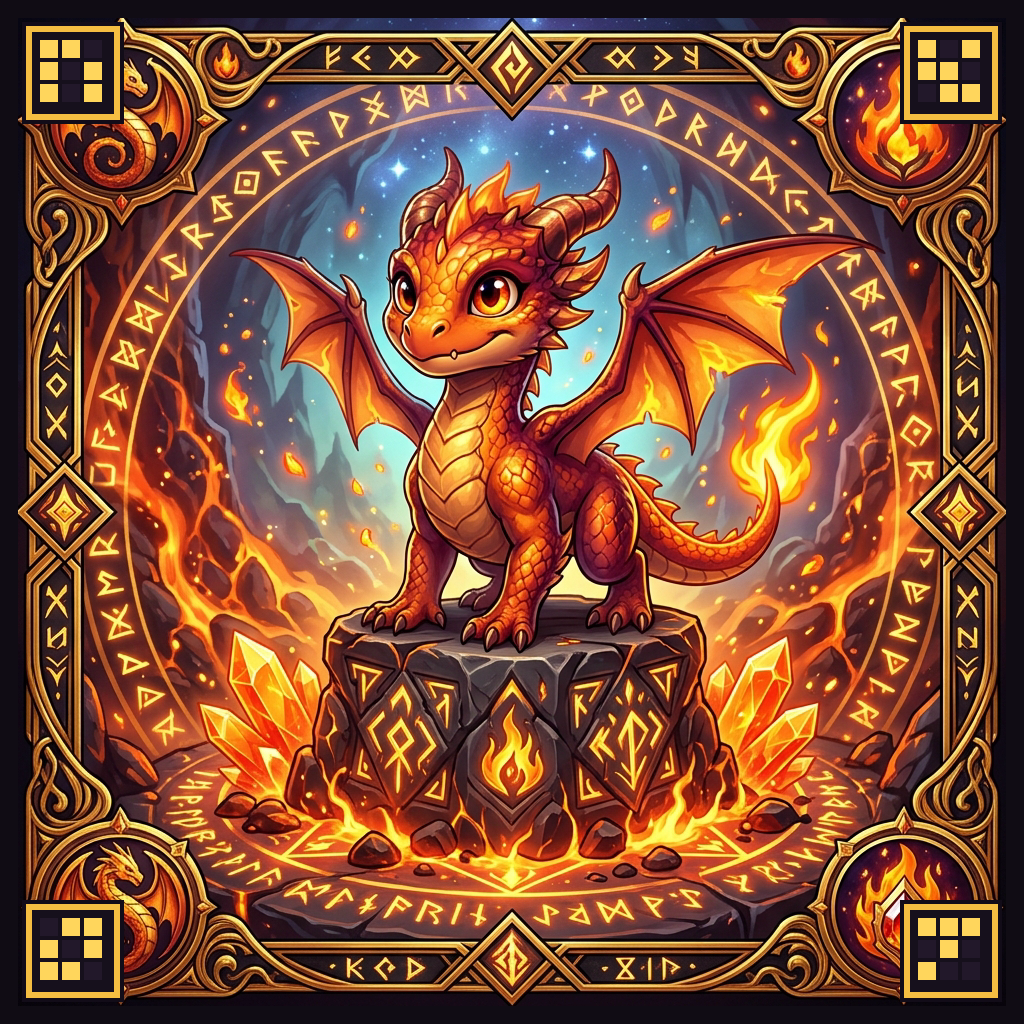
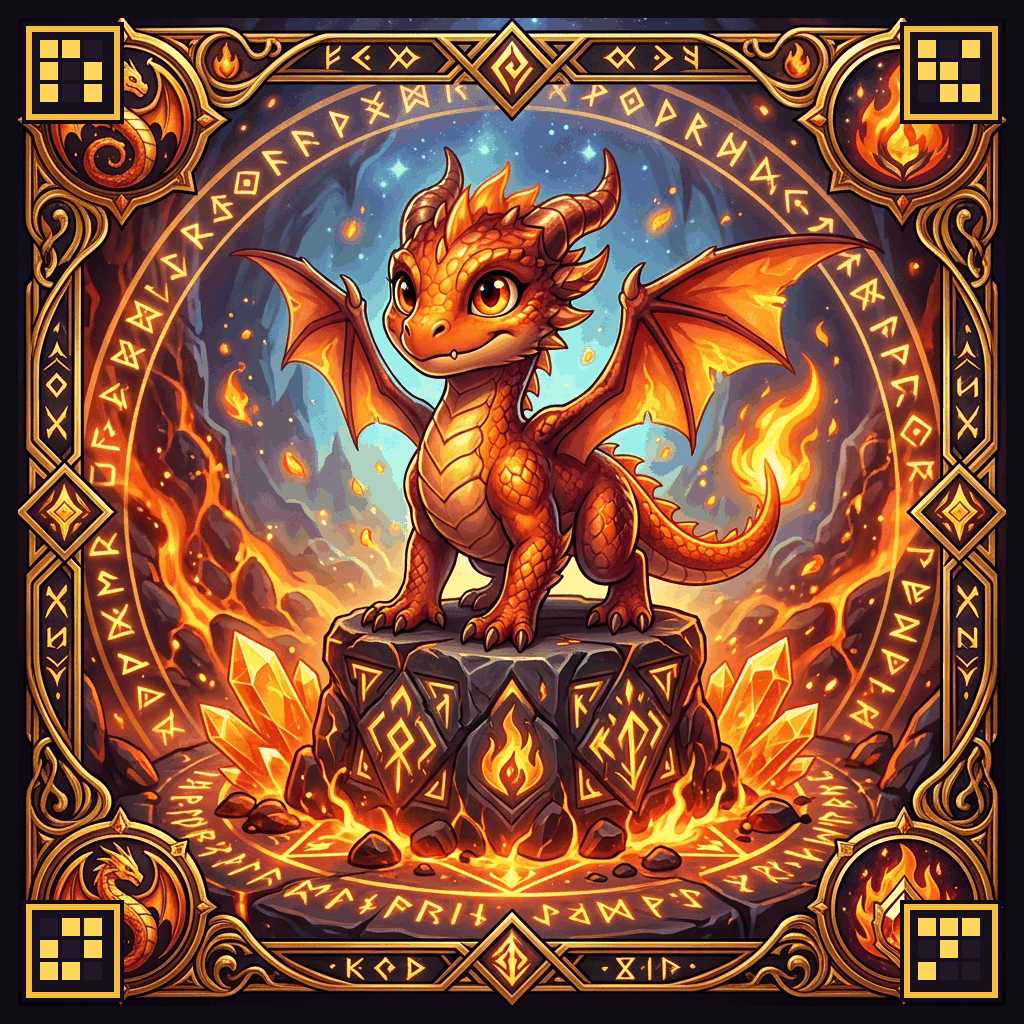
feat(ui): translucent in-game dock, drop the Login label, shrink the AR card
- dock: background 0.92 -> 0.52 alpha with backdrop blur, action buttons and
  cosmetic/dance chips equally translucent, so the island stays visible
  behind the controls while text is still readable
- i18n: 'Profile / Login' -> 'Profile' (en), 'Profil / Login' -> 'Profil' (id),
  '资料 / 登录' -> '资料' (zh) — guest mode makes a Login label redundant
- AR card PNG 2650 KB -> 557 KB (256-colour, dithered; alpha was fully opaque)
  and JPG 1128 KB -> 392 KB. Tracking is unaffected: MindAR uses the compiled
  .mind, the PNG is only used as the card plane texture and download/print.

diff --git a/src/index.css b/src/index.css
@@ -1016,6 +1016,35 @@ button:disabled {
   gap: 10px;
 }
 
+/* The in-game dock floats over the 3D world, so it is deliberately translucent:
+   the island stays readable underneath while the controls remain legible. */
+.bottom-dock-card.ui-card {
+  background-color: rgba(14, 12, 24, 0.52);
+  backdrop-filter: blur(16px) saturate(1.2);
+  -webkit-backdrop-filter: blur(16px) saturate(1.2);
+  border-color: rgba(251, 191, 36, 0.26);
+  box-shadow:
+    0 14px 34px rgba(0, 0, 0, 0.30),
+    inset 0 1px 0 rgba(255, 255, 255, 0.10);
+}
+
+.bottom-dock-card .btn-pet-action {
+  background: linear-gradient(180deg, rgba(51, 65, 85, 0.52), rgba(30, 41, 59, 0.64));
+  border-color: rgba(251, 191, 36, 0.32);
+  backdrop-filter: blur(10px);
+  -webkit-backdrop-filter: blur(10px);
+  box-shadow:
+    0 3px 0 rgba(15, 23, 42, 0.45),
+    0 4px 10px rgba(0, 0, 0, 0.20);
+}
+
+.bottom-dock-card .btn-cosmetic-chip,
+.bottom-dock-card .btn-dance-chip {
+  background-color: rgba(24, 22, 38, 0.50);
+  backdrop-filter: blur(8px);
+  -webkit-backdrop-filter: blur(8px);
+}
+
 .pet-actions-row {
   display: grid;
   grid-template-columns: repeat(6, 1fr);

diff --git a/src/i18n/translations.ts b/src/i18n/translations.ts
@@ -167,7 +167,7 @@ export const TRANSLATIONS: Record<AppLanguage, TranslationPack> = {
     menu: {
       guestKeeper: 'Guest Keeper',
       accountBadge: '✓ Profile',
-      registerLogin: 'Profile / Login',
+      registerLogin: 'Profile',
       playerPrefix: 'Player',
       play3dWorld: 'Play 3D World',
       enterArWorld: 'Enter AR World',
@@ -312,7 +312,7 @@ export const TRANSLATIONS: Record<AppLanguage, TranslationPack> = {
     menu: {
       guestKeeper: 'Keeper Tamu',
       accountBadge: '✓ Profil',
-      registerLogin: 'Profil / Login',
+      registerLogin: 'Profil',
       playerPrefix: 'Player',
       play3dWorld: 'Main Dunia 3D',
       enterArWorld: 'Masuk Dunia AR',
@@ -457,7 +457,7 @@ export const TRANSLATIONS: Record<AppLanguage, TranslationPack> = {
     menu: {
       guestKeeper: '游客驯龙师',
       accountBadge: '✓ 个人资料',
-      registerLogin: '资料 / 登录',
+      registerLogin: '资料',
       playerPrefix: '玩家',
       play3dWorld: '畅玩 3D 世界',
       enterArWorld: '进入 AR 世界',
